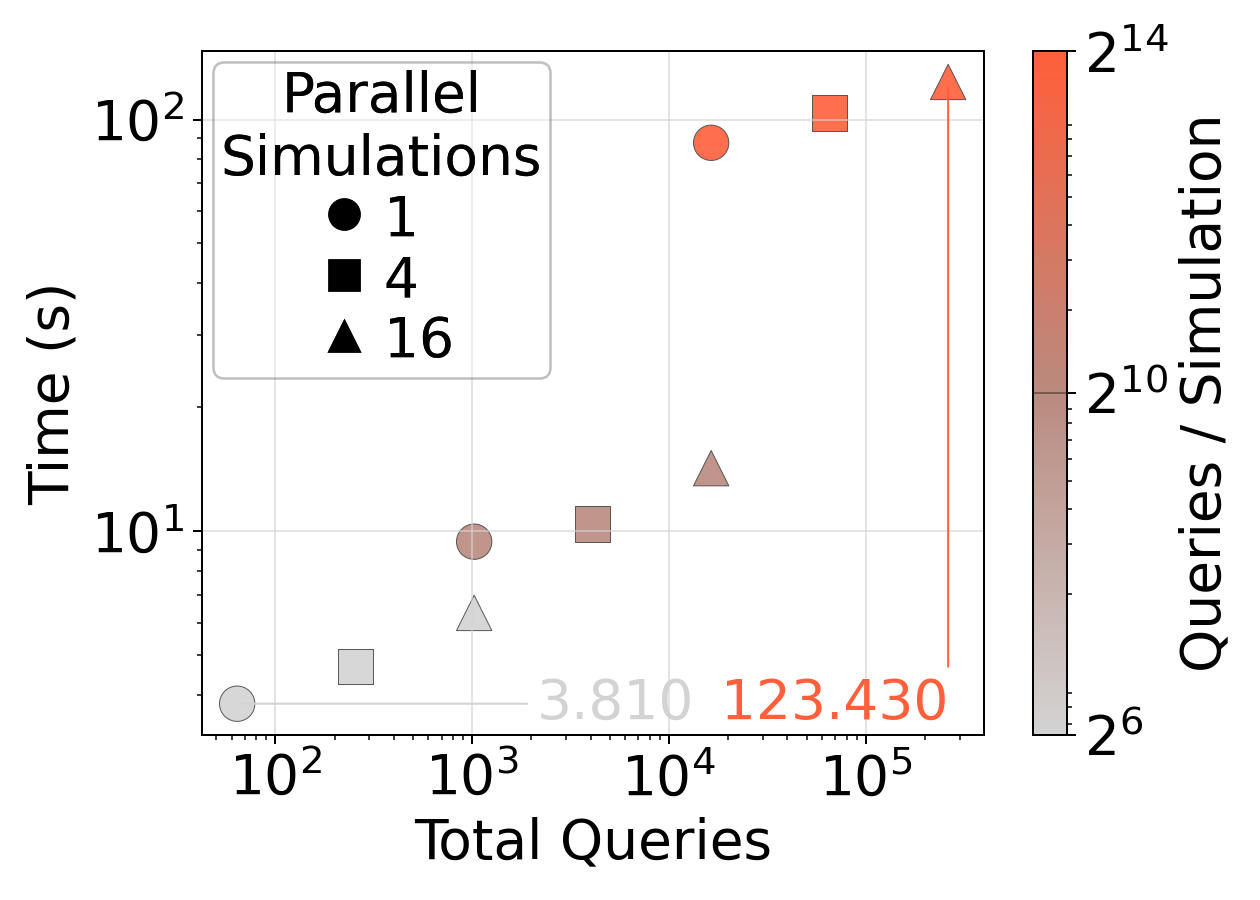
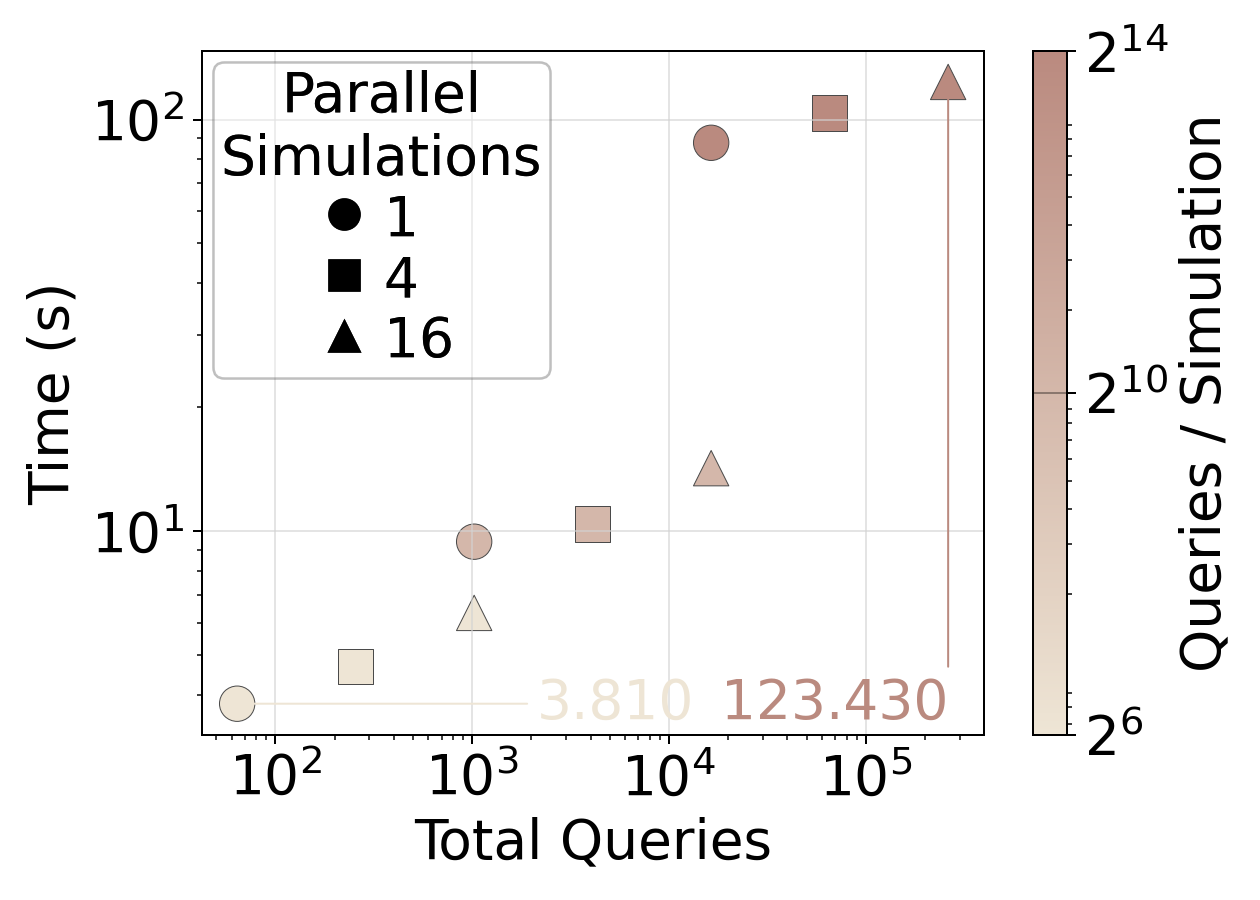
Visually improve secondary plots

diff --git a/src/autoslo/visualizations/colors.py b/src/autoslo/visualizations/colors.py
@@ -29,6 +29,7 @@ class Palette:
     dark_purple: str = "#800080"
     gray: str = "#4A4A4A"
     black: str = "#000000"
+    cream: str = "#EEE5D5"
 
     @staticmethod
     def semantic_colors() -> Mapping[str, str]:
@@ -58,6 +59,7 @@ class Palette:
             "black": Palette.black,
             "light_purple": Palette.light_purple,
             "dark_purple": Palette.dark_purple,
+            "cream": Palette.cream,
         }
 
     @staticmethod

diff --git a/src/autoslo/microbenchmarks/routing_efficiency.py b/src/autoslo/microbenchmarks/routing_efficiency.py
@@ -121,9 +121,8 @@ class RoutingEfficiencyBenchmark(MicrobenchmarkRunner):
             shape_legend_title="Clusters",
             colorbar_label="Active Queries / Cluster",
             cmap_colors=[
-                Palette.light_gray,
-                Palette.light_blue,
-                Palette.light_blue_sat,
+                Palette.cream,
+                Palette.light_blue
             ],
             log_color_base=2,
             log_x=True,

diff --git a/src/autoslo/microbenchmarks/scenario_evaluator_efficiency.py b/src/autoslo/microbenchmarks/scenario_evaluator_efficiency.py
@@ -128,9 +128,8 @@ class ScenarioEvaluatorEfficiencyBenchmark(MicrobenchmarkRunner):
             shape_legend_title="Parallel\nSimulations",
             colorbar_label="Queries / Simulation",
             cmap_colors=[
-                Palette.light_gray,
+                Palette.cream,
                 Palette.light_red,
-                Palette.light_red_sat,
             ],
             log_x=True,
             log_y=True,

diff --git a/src/autoslo/microbenchmarks/spinup_optimizer_efficiency.py b/src/autoslo/microbenchmarks/spinup_optimizer_efficiency.py
@@ -154,9 +154,8 @@ class SpinupOptimizerEfficiencyBenchmark(MicrobenchmarkRunner):
             shape_legend_title="Forecasts",
             colorbar_label="Queries / Forecast",
             cmap_colors=[
-                Palette.light_gray,
+                Palette.cream,
                 Palette.light_purple,
-                Palette.light_purple_sat,
             ],
             log_x=True,
             log_color_base=2,

diff --git a/src/autoslo/microbenchmarks/autoscaling_efficiency.py b/src/autoslo/microbenchmarks/autoscaling_efficiency.py
@@ -182,9 +182,8 @@ class AutoscalingEfficiencyBenchmark(MicrobenchmarkRunner):
             shape_legend_title="Candidate RPU",
             colorbar_label="Queries / Obs. Window",
             cmap_colors=[
-                Palette.light_gray,
+                Palette.cream,
                 Palette.light_green,
-                Palette.light_green_sat,
             ],
             log_x=True,
             log_y=True,

diff --git a/src/autoslo/microbenchmarks/microbenchmark_runner.py b/src/autoslo/microbenchmarks/microbenchmark_runner.py
@@ -97,7 +97,7 @@ class MicrobenchmarkRunner:
     SCATTER_FIGSIZE = (7, 5)
     SCATTER_DPI = 180
     SCATTER_MARKER_SIZE = 200
-    SCATTER_POINT_ALPHA = 0.9
+    SCATTER_POINT_ALPHA = 1
     SCATTER_EDGE_LINEWIDTH = 0.4
     SCATTER_LEGEND_MARKER_SIZE = 12
     SCATTER_LEGEND_MARKER_EDGE_WIDTH = 1.0

diff --git a/src/autoslo/visualizations/iconq_model_comparison.py b/src/autoslo/visualizations/iconq_model_comparison.py
@@ -294,7 +294,7 @@ def plot_qerror_by_split(
             markersize=_MARKER_SIZE,
             label=p,
         )
-        for p in reversed(percentile_names)
+        for p in percentile_names
     ]
     highlight_handles: list[Line2D] = []
     if highlight_best:
